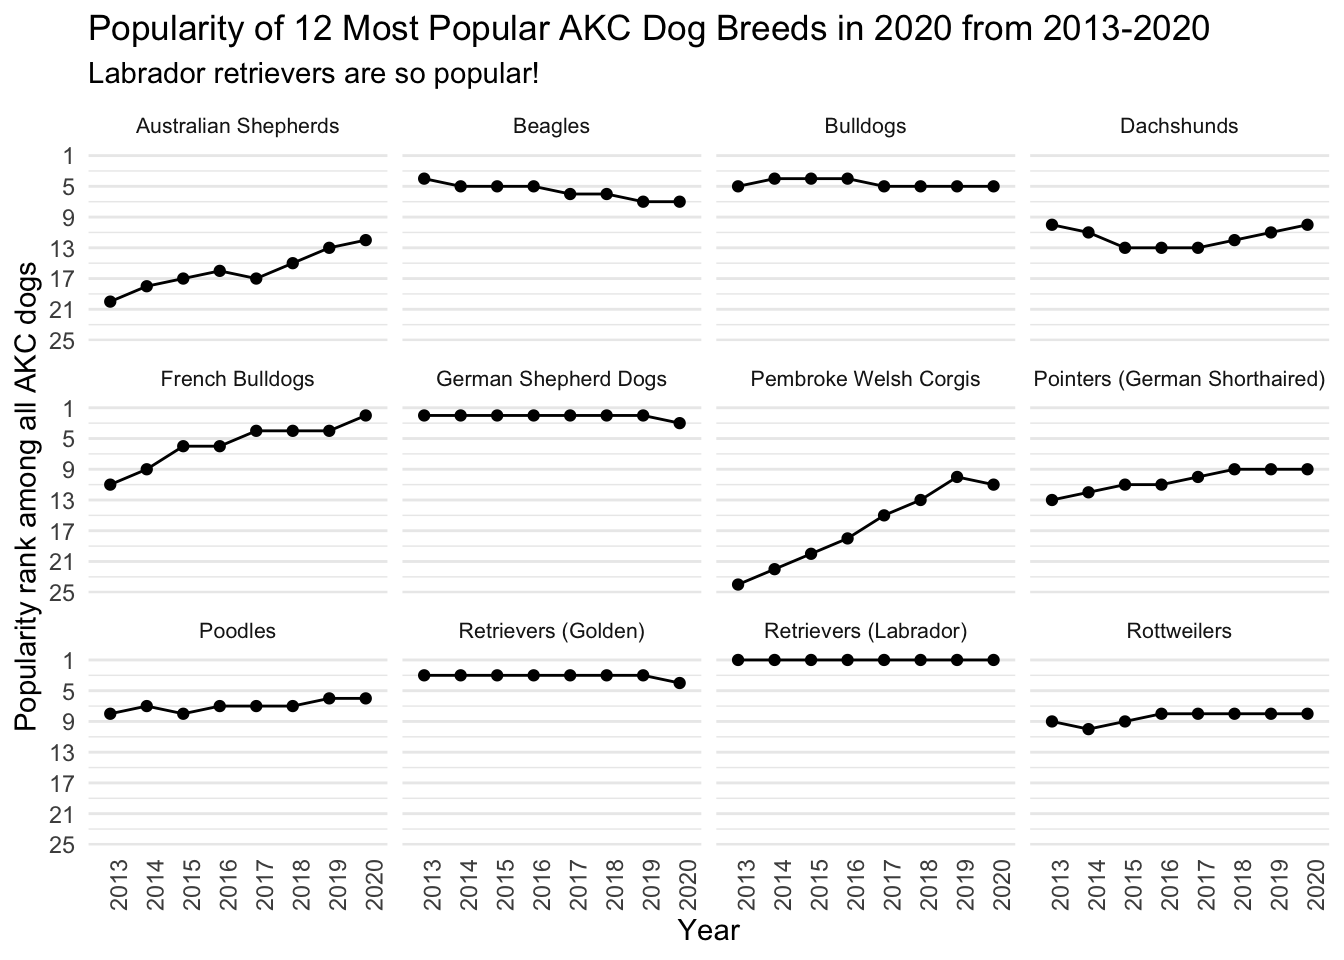
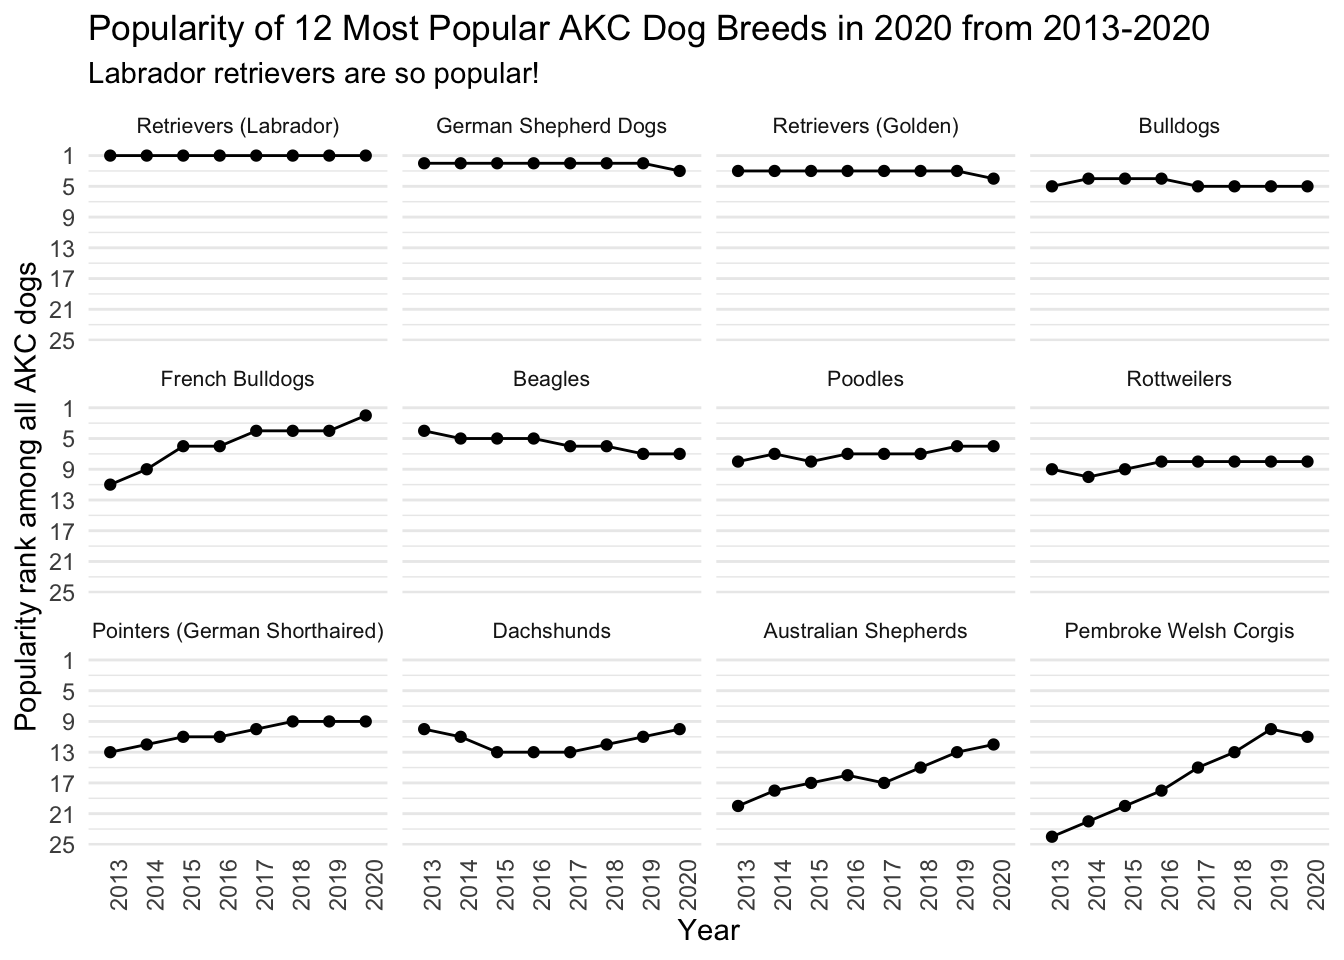
Updating ggplot102 recitation

diff --git a/docs/modules/module2/06_ggplot102/06_ggplot102_recitation_solutions.html b/docs/modules/module2/06_ggplot102/06_ggplot102_recitation_solutions.html
@@ -1081,7 +1081,7 @@ Attaching package: 'janitor'</code></pre>
 <span id="cb41-3"><a href="#cb41-3" aria-hidden="true" tabindex="-1"></a>  <span class="fu">ggplot</span>(<span class="fu">aes</span>(<span class="at">x =</span> year, <span class="at">y =</span> rank, <span class="at">group =</span> breed)) <span class="sc">+</span></span>
 <span id="cb41-4"><a href="#cb41-4" aria-hidden="true" tabindex="-1"></a>    <span class="fu">geom_point</span>() <span class="sc">+</span></span>
 <span id="cb41-5"><a href="#cb41-5" aria-hidden="true" tabindex="-1"></a>    <span class="fu">geom_line</span>() <span class="sc">+</span></span>
-<span id="cb41-6"><a href="#cb41-6" aria-hidden="true" tabindex="-1"></a>    <span class="fu">facet_wrap</span>(<span class="fu">vars</span>(breed)) <span class="sc">+</span> </span>
+<span id="cb41-6"><a href="#cb41-6" aria-hidden="true" tabindex="-1"></a>    <span class="fu">facet_wrap</span>(<span class="fu">vars</span>(<span class="fu">fct_reorder</span>(breed, rank))) <span class="sc">+</span> <span class="co"># orders facets by mean rank so more popular first</span></span>
 <span id="cb41-7"><a href="#cb41-7" aria-hidden="true" tabindex="-1"></a>    <span class="fu">scale_y_reverse</span>(<span class="at">breaks =</span> <span class="fu">seq</span>(<span class="dv">1</span>, <span class="dv">25</span>, <span class="dv">4</span>)) <span class="sc">+</span> <span class="co"># reverse so that lower number rank is at the top and set the labels to start at 1, increment by 4 until 25 since a zero rank doesn't exist</span></span>
 <span id="cb41-8"><a href="#cb41-8" aria-hidden="true" tabindex="-1"></a>    <span class="fu">theme_minimal</span>() <span class="sc">+</span> </span>
 <span id="cb41-9"><a href="#cb41-9" aria-hidden="true" tabindex="-1"></a>    <span class="fu">theme</span>(<span class="at">axis.text.x =</span> <span class="fu">element_text</span>(<span class="at">angle =</span> <span class="dv">90</span>), <span class="co"># make x-axis labels on 90degree angle</span></span>
